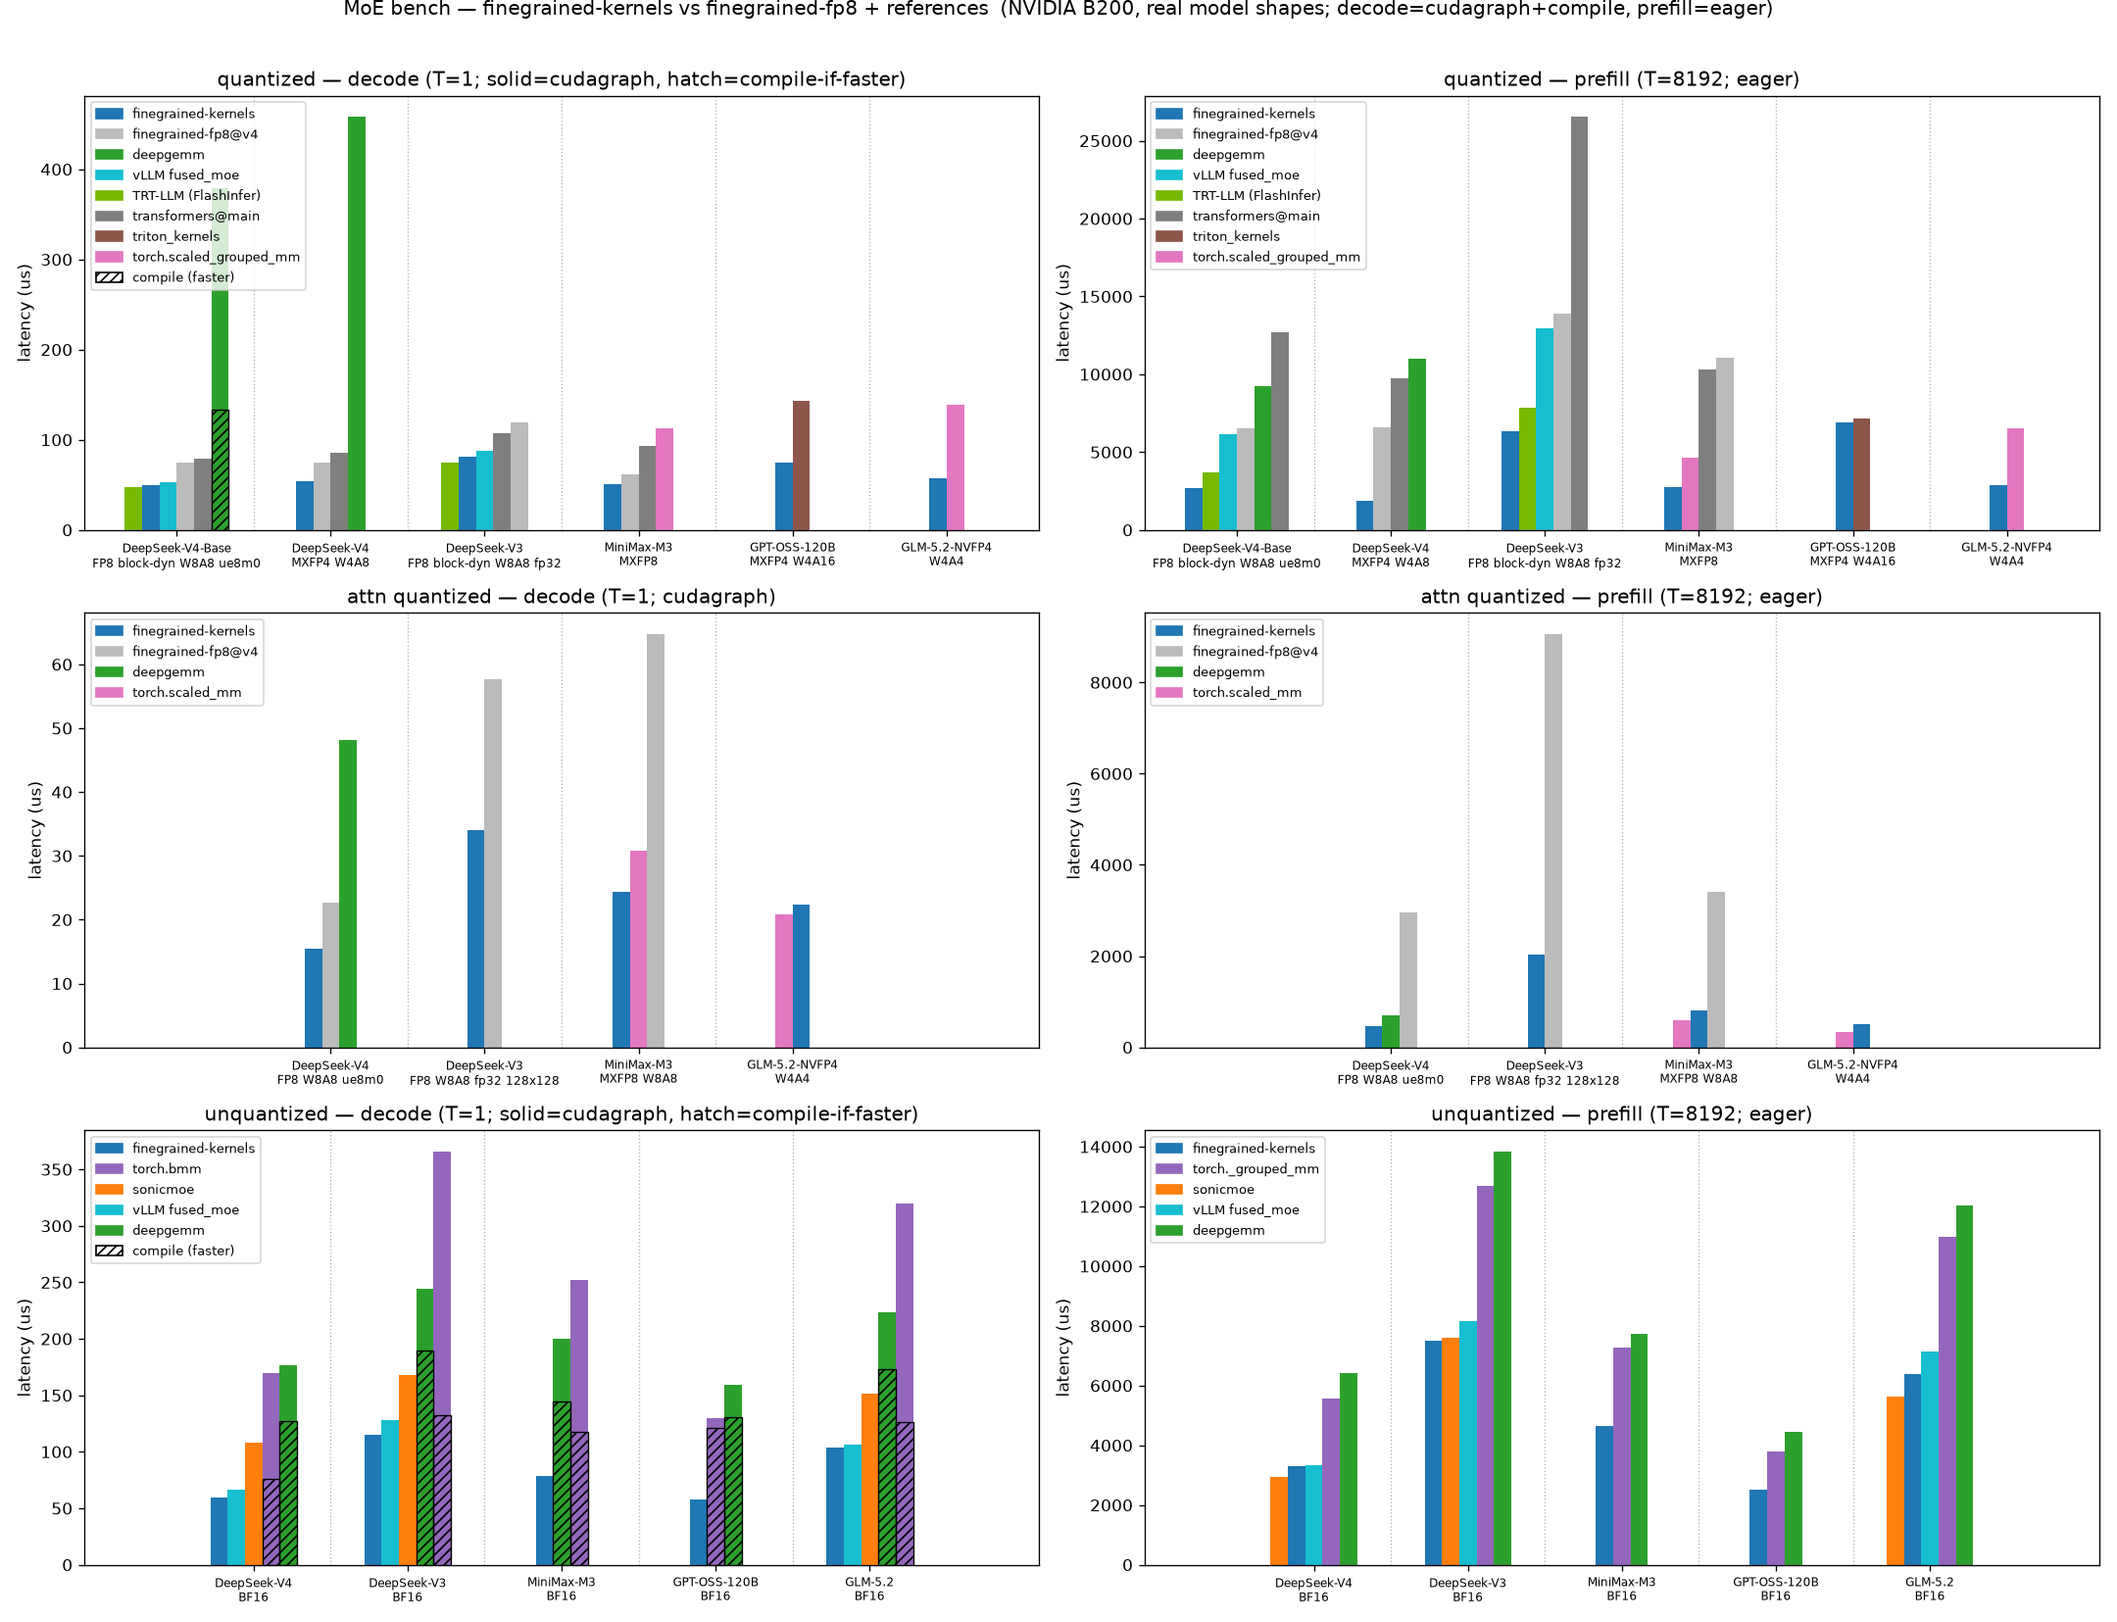
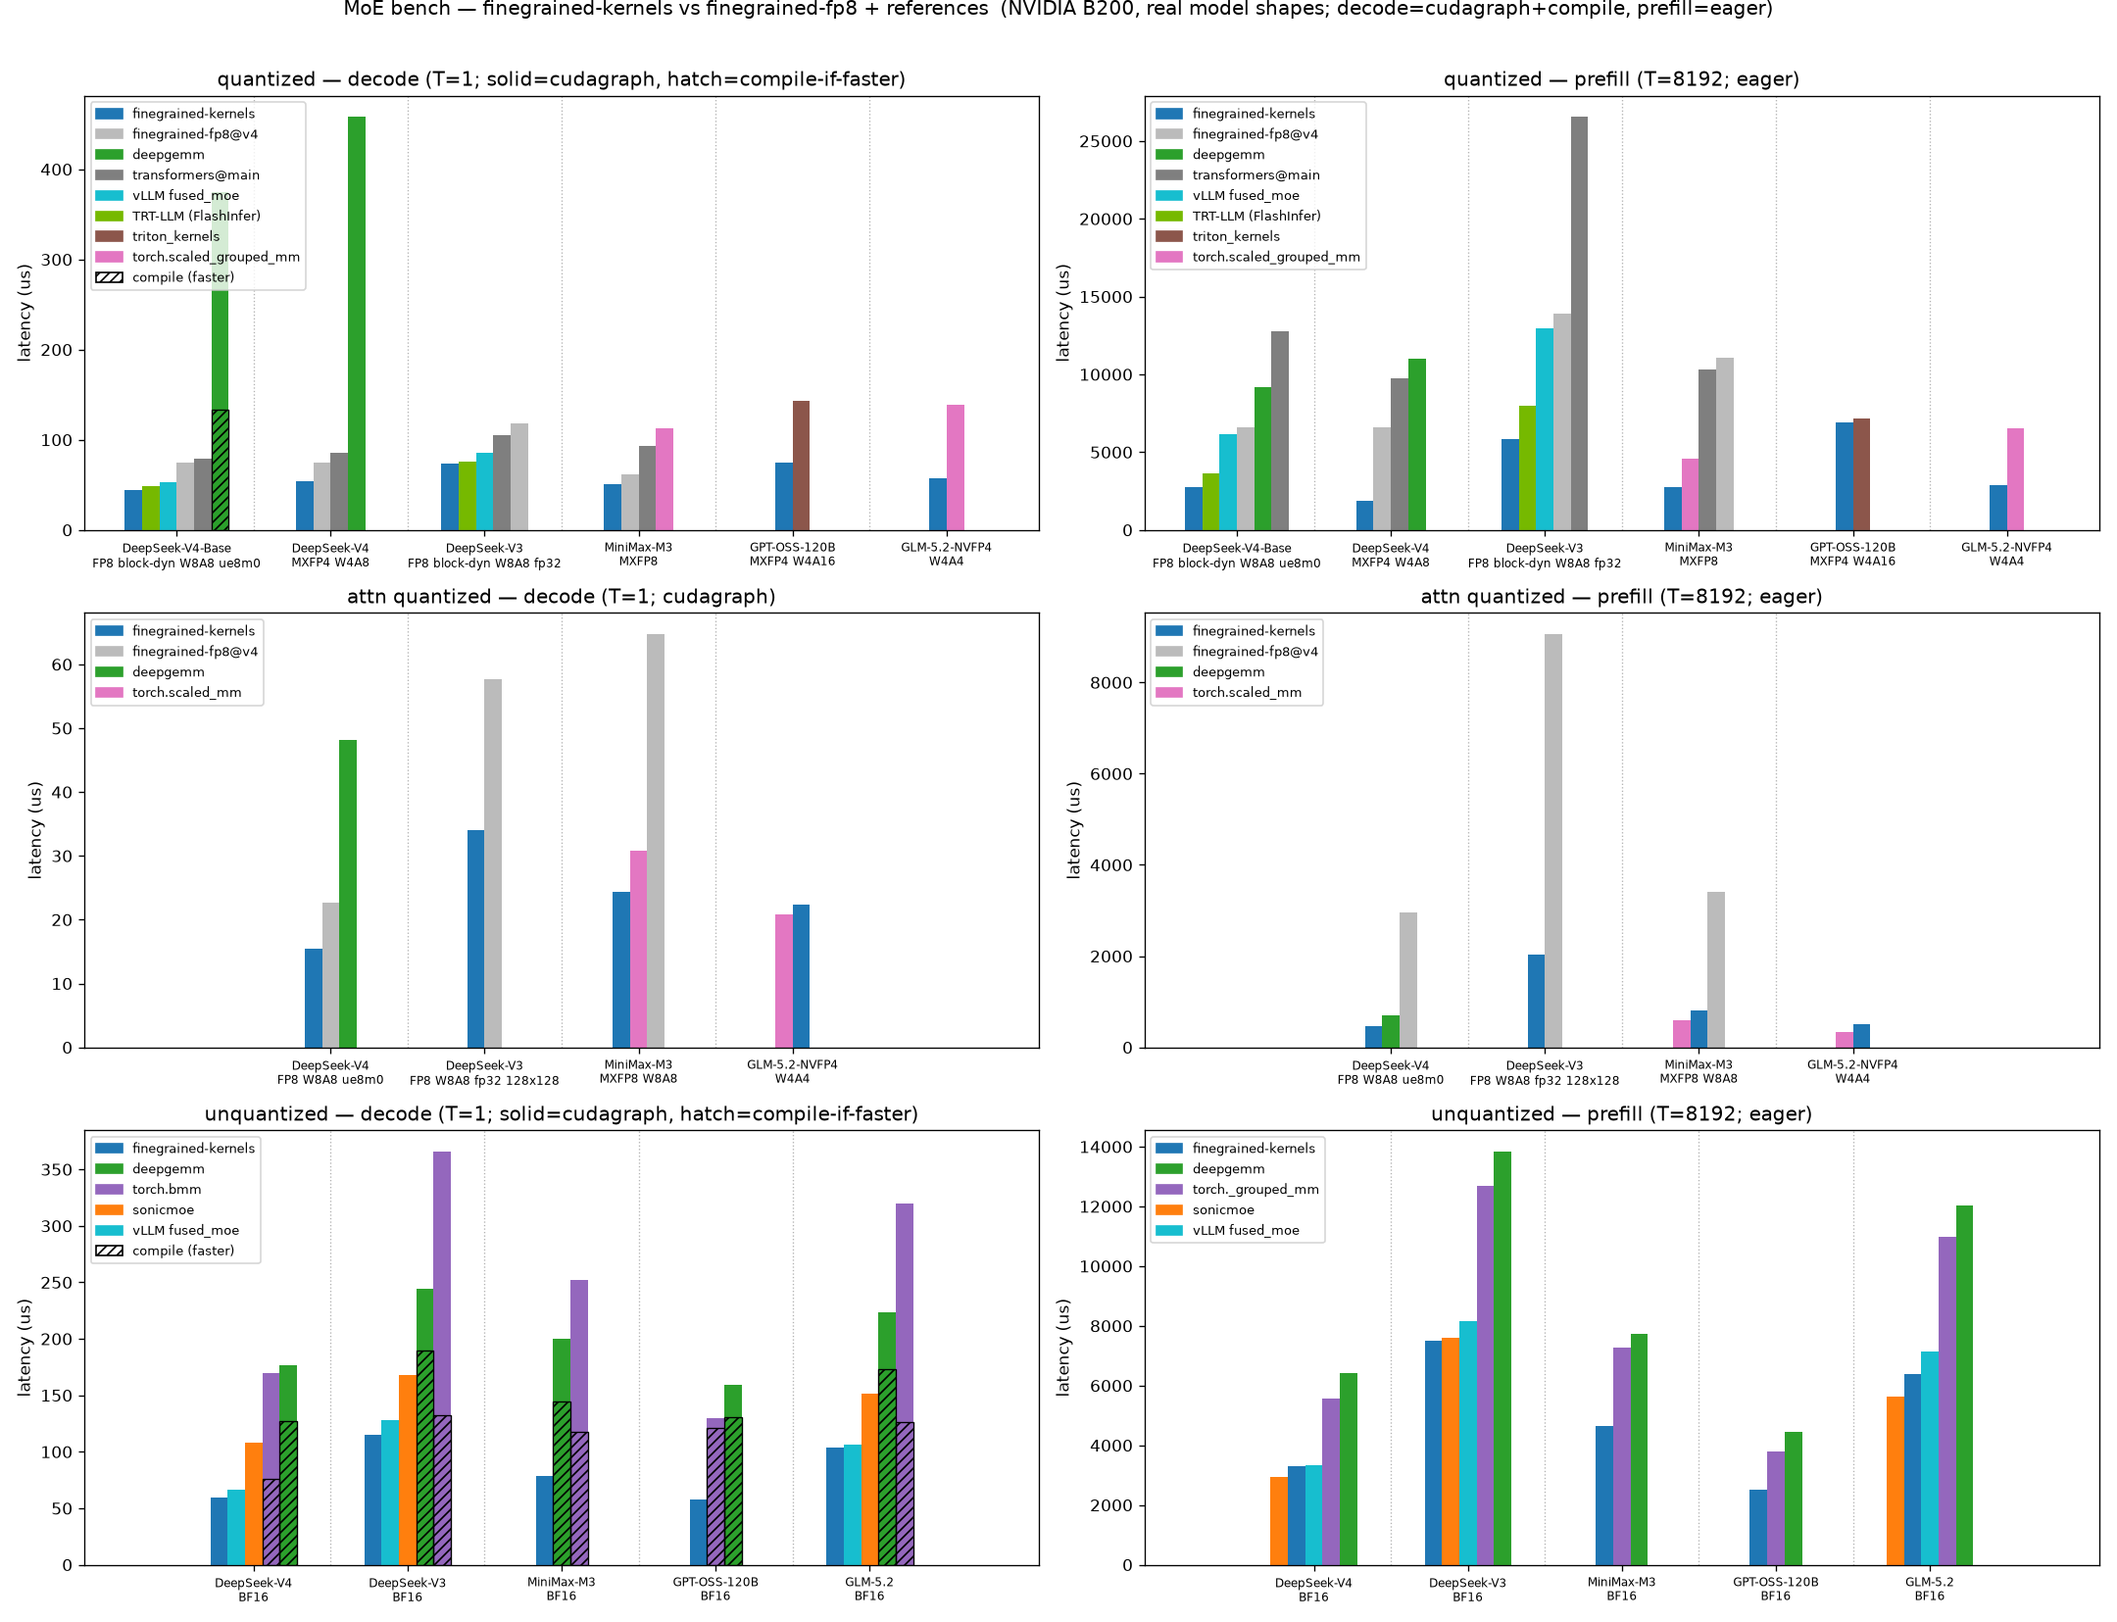
new records

diff --git a/finegrained-kernels/torch-ext/finegrained_kernels/epilogue.py b/finegrained-kernels/torch-ext/finegrained_kernels/epilogue.py
@@ -242,10 +242,19 @@ def glu(
 
 @triton.jit
 def _glu_kernel(
-    gate_up_ptr, out_ptr, n_out,
-    I: tl.constexpr, ACT_FN: tl.constexpr,
-    SWIGLU_ALPHA: tl.constexpr, SWIGLU_LIMIT: tl.constexpr,
+    GateUp,  # (S, 2I) stacked [gate|up] GEMM output; fp32 = exact accumulators (fused order)
+    Out,  # (S, I) activation-dtype GLU result; the E4M3 tensor under the requant arm
+    QuantScales,  # block-FP8 requant arm (``fused_glu(quant_group=...)``): per-``QUANT_GROUP``
+    #             scales (fp32, or UE8M0 exponent bytes); ``None`` folds the arm out — the GLU
+    #             result then rounds through bf16 (the reference two-kernel order) and quantizes
+    n_out,
+    I: tl.constexpr,
+    ACT_FN: tl.constexpr,
+    SWIGLU_ALPHA: tl.constexpr,
+    SWIGLU_LIMIT: tl.constexpr,
     BLOCK: tl.constexpr,
+    QUANT_GROUP: tl.constexpr = 128,
+    UE8M0: tl.constexpr = False,
 ):
     """Fused GLU over a contiguous (S, 2I) [gate|up] tensor -> (S, I), covering every
     ``apply_glu`` variant (silu/gelu/relu, ``SWIGLU_ALPHA``/``SWIGLU_LIMIT`` clamped-SwiGLU
@@ -255,9 +264,14 @@ def _glu_kernel(
     offs = tl.program_id(0) * BLOCK + tl.arange(0, BLOCK)
     mask = offs < n_out
     base = (offs // I) * 2 * I + offs % I
-    dt = out_ptr.dtype.element_ty
-    g = tl.load(gate_up_ptr + base, mask=mask).to(tl.float32)
-    u = tl.load(gate_up_ptr + base + I, mask=mask).to(tl.float32)
+    # fp32 input = exact GEMM accumulators (the unstacked fused-order path): compute the
+    # GLU in fp32 and round ONCE at the store — the gated epilogue's math. Narrow inputs
+    # keep the torch-chain per-op rounding (bit-identical to apply_glu).
+    FUSED_ORDER: tl.constexpr = GateUp.dtype.element_ty == tl.float32
+    dt = tl.float32 if FUSED_ORDER else (
+        tl.bfloat16 if QuantScales is not None else Out.dtype.element_ty)
+    g = tl.load(GateUp + base, mask=mask).to(tl.float32)
+    u = tl.load(GateUp + base + I, mask=mask).to(tl.float32)
     if SWIGLU_LIMIT is not None:
         g = tl.minimum(g, SWIGLU_LIMIT)
         u = tl.clamp(u, -SWIGLU_LIMIT, SWIGLU_LIMIT)
@@ -276,7 +290,23 @@ def _glu_kernel(
         out = ((a * d).to(dt).to(tl.float32) * u).to(dt)
     else:  # relu
         out = (tl.maximum(g, 0.0) * u).to(dt)
-    tl.store(out_ptr + offs, out, mask=mask)
+    if QuantScales is None:
+        tl.store(Out + offs, out.to(Out.dtype.element_ty), mask=mask)
+    else:
+        grp = tl.reshape(out.to(tl.float32), (BLOCK // QUANT_GROUP, QUANT_GROUP))
+        amax = tl.max(tl.abs(grp), axis=1)
+        if UE8M0:
+            sc = tl.exp2(tl.ceil(tl.log2(tl.maximum(amax, 1e-10) / 448.0)))
+        else:
+            sc = tl.maximum(amax, 1e-10) / 448.0
+        q = tl.clamp(grp / sc[:, None], -448.0, 448.0)
+        tl.store(Out + offs, tl.reshape(q, (BLOCK,)).to(tl.float8e4nv), mask=mask)
+        soffs = tl.program_id(0) * (BLOCK // QUANT_GROUP) + tl.arange(0, BLOCK // QUANT_GROUP)
+        smask = soffs * QUANT_GROUP < n_out
+        if UE8M0:
+            tl.store(QuantScales + soffs, (tl.log2(sc) + 127.0).to(tl.uint8), mask=smask)
+        else:
+            tl.store(QuantScales + soffs, sc, mask=smask)
 
 
 def fused_glu(
@@ -284,17 +314,41 @@ def fused_glu(
     act_fn: str = "silu",
     swiglu_alpha: float | None = None,
     swiglu_limit: float | None = None,
-) -> torch.Tensor:
+    quant_group: int | None = None,
+    use_ue8m0: bool = False,
+    out_dtype: torch.dtype | None = None,
+) -> torch.Tensor | tuple[torch.Tensor, torch.Tensor]:
     """GLU over the stacked (S, 2I) [gate|up] GEMM output — the one-kernel ``_glu_kernel``
-    on a contiguous CUDA tensor (the torch chain is three-plus strided elementwise kernels —
-    ~15µs of a ~75µs fp8 decode step), the torch ``apply_glu`` on any fallback layout.
-    Both orders are bit-identical for every variant."""
+    on a contiguous tensor, the torch ``apply_glu`` on any fallback layout; bit-identical
+    either way. ``quant_group`` additionally block-FP8-requantizes the result per group in
+    the same kernel (the unstacked decode band's handoff to the down projection) and
+    returns ``(q, scales)`` — scales fp32, or UE8M0 exponent bytes under ``use_ue8m0``;
+    non-SiLU/clamped variants take the two-step order (same bits — the fused arm rounds
+    through bf16 first for exactly this equivalence)."""
     I = gate_up.shape[-1] // 2
+    if quant_group is not None:
+        if act_fn == "silu" and swiglu_alpha is None and swiglu_limit is None and gate_up.is_contiguous():
+            S = gate_up.shape[0]
+            q = torch.empty(S, I, dtype=torch.float8_e4m3fn, device=gate_up.device)
+            sc = torch.empty(S, I // quant_group,
+                             dtype=torch.uint8 if use_ue8m0 else torch.float32,
+                             device=gate_up.device)
+            n = q.numel()
+            _glu_kernel[(triton.cdiv(n, 1024),)](
+                gate_up, q, sc, n, I, "silu", None, None, BLOCK=1024,
+                QUANT_GROUP=quant_group, UE8M0=use_ue8m0,
+            )
+            return q, sc
+        from .quant import fp8_act_quant_block_dynamic  # deferred: module import order
+
+        inter = fused_glu(gate_up, act_fn, swiglu_alpha, swiglu_limit)
+        return fp8_act_quant_block_dynamic(inter, quant_group, use_ue8m0=use_ue8m0)
     if gate_up.is_contiguous() and act_fn in ("silu", "gelu", "relu"):
-        out = torch.empty(*gate_up.shape[:-1], I, dtype=gate_up.dtype, device=gate_up.device)
+        out = torch.empty(*gate_up.shape[:-1], I,
+                          dtype=out_dtype or gate_up.dtype, device=gate_up.device)
         n = out.numel()
         _glu_kernel[(triton.cdiv(n, 1024),)](
-            gate_up, out, n, I, act_fn, swiglu_alpha, swiglu_limit, BLOCK=1024
+            gate_up, out, None, n, I, act_fn, swiglu_alpha, swiglu_limit, BLOCK=1024
         )
         return out
     gate, up = gate_up.chunk(2, dim=-1)

diff --git a/finegrained-kernels/torch-ext/finegrained_kernels/moe.py b/finegrained-kernels/torch-ext/finegrained_kernels/moe.py
@@ -33,10 +33,12 @@ the base ops dispatch on the weight dtypes / scale layout (block-dynamic FP8, MX
 NVFP4), and the fused forwards take an optional ``recipe`` naming the block's activation
 quantization."""
 
+import functools
+
 import torch
 
 from .grouped import matmul_grouped
-from .batched import matmul_batched
+from .batched import GATE_UNSTACK_MAX_S, matmul_batched
 from .compat import MX_SCALE_GROUP_K, NVFP4_SCALE_GROUP_K, weighted_reduce
 from .recipes import Epilogue, Quantization, is_mx, is_mxfp4, weight_recipe
 from .quant import _launch_act_quant
@@ -61,12 +63,20 @@ def _validate_moe(gate_up_proj, gate_up_proj_scale, down_proj, down_proj_scale):
 
 def _gather_idx(top_k_index: torch.Tensor) -> torch.Tensor:
     """The batched routed-row gather: routed row ``s`` (``= t*K + k``) reads token ``s // num_top_k``
-    of the unexpanded hidden. ``matmul_batched`` applies it in-kernel, so no ``(S, H)`` copy."""
-    num_tokens, num_top_k = top_k_index.shape
+    of the unexpanded hidden. ``matmul_batched`` applies it in-kernel, so no ``(S, H)`` copy.
+    The map depends only on the SHAPE, so it is cached per (tokens, top_k, device) — its two
+    elementwise launches (~3µs) were the largest non-GEMM cost of the fp8 decode chain."""
+    return _gather_idx_cached(
+        top_k_index.shape[0], top_k_index.shape[1], top_k_index.device
+    )
+
+
+@functools.lru_cache(maxsize=64)
+def _gather_idx_cached(
+    num_tokens: int, num_top_k: int, device: torch.device
+) -> torch.Tensor:
     return (
-        torch.arange(
-            num_tokens * num_top_k, device=top_k_index.device, dtype=torch.int32
-        )
+        torch.arange(num_tokens * num_top_k, device=device, dtype=torch.int32)
         // num_top_k
     )
 
@@ -263,13 +273,18 @@ def moe_fused_batched(
             simulate_unfused=simulate_unfused,
         ),
         # Decode (batched): recipe None (weight-only) leaves the intermediate bf16, no requant.
-        # Block-FP8 decode also hands the down a bf16 intermediate: the requant is latency-free here
-        # but pins the gate|up tile to the whole block scale, and that full-width tile halves this
-        # kernel's decode grid (parallelism-bound at M=1). Letting the down inline-quant instead buys
-        # the sub-block tile — far more than the down's inline-quant costs.
+        # Block-FP8: INSIDE the unstacked decode band the requant fuses into the GLU kernel
+        # (``fused_glu(quant_group=...)`` — one launch, hands the down a ready fp8+scales intermediate and
+        # kills its offline act quant); ABOVE the band the stacked epilogue's requant pins
+        # the gate|up tile to the whole block scale and halves the grid, so the bf16 handoff
+        # (down inline-quants) stays the win there.
         quantization=Quantization(
             input_recipe=recipe,
-            output_recipe=None if recipe == "fp8" else recipe,
+            output_recipe=(
+                recipe
+                if recipe != "fp8" or expert_ids.numel() <= GATE_UNSTACK_MAX_S
+                else None
+            ),
         ),
         output_dtype=hidden_states.dtype,
         gather_idx=gather_idx,

diff --git a/finegrained-kernels/bench/bench_moe.py b/finegrained-kernels/bench/bench_moe.py
@@ -151,6 +151,7 @@ try:
     from vllm.model_executor.layers.fused_moe.fused_moe import fused_experts as vllm_fused_experts  # noqa: E402
     from vllm.model_executor.layers.fused_moe.activation import MoEActivation as _VllmAct  # noqa: E402
     from vllm.model_executor.layers.fused_moe.config import fp8_w8a8_moe_quant_config as _vllm_fp8_qc  # noqa: E402
+    from vllm.model_executor.layers.quantization.utils.fp8_utils import per_token_group_quant_fp8 as _vllm_group_quant  # noqa: E402
 except ImportError:
     vllm_fused_experts = None
 # FlashInfer TRT-LLM fused MoE (NVIDIA's Blackwell serving kernels) — installed --no-deps
@@ -555,7 +556,8 @@ def trtllm_moe_arm(cfg, grouped, hidden, idx, w, gu, gus, dn, dns, *_):
     (offline): TRT-LLM's gate|up order is [up; gate] — the halves swap; UE8M0 scales ride
     as fp32 (same values). Routing rides packed ``(expert_id << 16) | bf16-weight`` ids;
     the activation quant (1x128, TRANSPOSED [K/128, T] scale layout) is inside the timed
-    call, the local arm's inline-quant rule. Numerics caveat (oracle-checked 2026-08-06):
+    call and is the STACK'S OWN kernel (vLLM's per_token_group_quant_fp8 — what their
+    TRT-LLM integration runs), so the bar is the integration end-to-end. Numerics caveat (oracle-checked 2026-08-06):
     ~4.8e-2 from the exact block recipe vs our 2.8e-3 — looser than vLLM-triton's 1.7e-2."""
     E, I2, H = gu.shape
     I = I2 // 2
@@ -567,7 +569,9 @@ def trtllm_moe_arm(cfg, grouped, hidden, idx, w, gu, gus, dn, dns, *_):
         w.to(torch.bfloat16).view(torch.int16).to(torch.int32) & 0xFFFF)
 
     def run():
-        hq, hs = fgm.fp8_act_quant_block_dynamic(hidden, 128)
+        # the STACK's own act quant (vLLM's TRT-LLM integration runs this exact kernel) —
+        # the arm is the integration end-to-end, never our kernels feeding theirs
+        hq, hs = _vllm_group_quant(hidden, 128, column_major_scales=False)
         out = trtllm_fp8_block_scale_routed_moe(
             packed, None, hq, hs.t().contiguous(), g1, g1s, dn, dns_f,
             num_experts=E, top_k=idx.shape[1], n_group=None, topk_group=None,

diff --git a/finegrained-kernels/torch-ext/finegrained_kernels/batched.py b/finegrained-kernels/torch-ext/finegrained_kernels/batched.py
@@ -959,14 +959,10 @@ def w8a8_block_dynamic_fp8_matmul_batched(
             input_recipe=input_recipe, output_dtype=output_dtype,
             gather_idx=gather_idx, scatter_idx=scatter_idx,
         )
-        inter = fused_glu(gate_up, act_fn, swiglu_alpha, swiglu_limit)
-        if not requant:
-            return [inter]
-        return list(
-            fp8_act_quant_block_dynamic(
-                inter, block_n, use_ue8m0=bs_u8.dtype == torch.uint8
-            )
-        )
+        out = fused_glu(gate_up, act_fn, swiglu_alpha, swiglu_limit,
+                        quant_group=block_n if requant else None,
+                        use_ue8m0=bs_u8.dtype == torch.uint8)
+        return list(out) if requant else [out]
     # A raw (As is None) -> quantize here (offline); else pre-quantized (As given, e.g. the
     # requantized intermediate handed to the down projection).
     if As is None:
@@ -1532,11 +1528,15 @@ def mx_weight_only_matmul_batched(
     # halves occupancy on a weight-bandwidth-bound loop; unlike the block-FP8 band this
     # never inverts (GPT-OSS shape: 48.0->39.7µs at S=4, still ahead at S=512; 2026-08-06).
     if gate:
+        # fp32 intermediate = the exact GEMM accumulators, so the GLU keeps the gated
+        # epilogue's fused-order rounding (bf16 operands would drift steep-sigmoid
+        # elements past the weight-only tests' exact-ish tolerances)
         [gate_up] = mx_weight_only_matmul_batched(
-            A, B, Bs, expert_ids, output_dtype=output_dtype,
+            A, B, Bs, expert_ids, output_dtype=torch.float32,
             gather_idx=gather_idx, scatter_idx=scatter_idx,
         )
-        return [fused_glu(gate_up, act_fn, swiglu_alpha, swiglu_limit)]
+        return [fused_glu(gate_up, act_fn, swiglu_alpha, swiglu_limit,
+                          out_dtype=resolve_output_dtype(output_dtype, A, None))]
     output_dtype = resolve_output_dtype(output_dtype, A, None)
     K = A.shape[1]
     S = expert_ids.shape[0]
